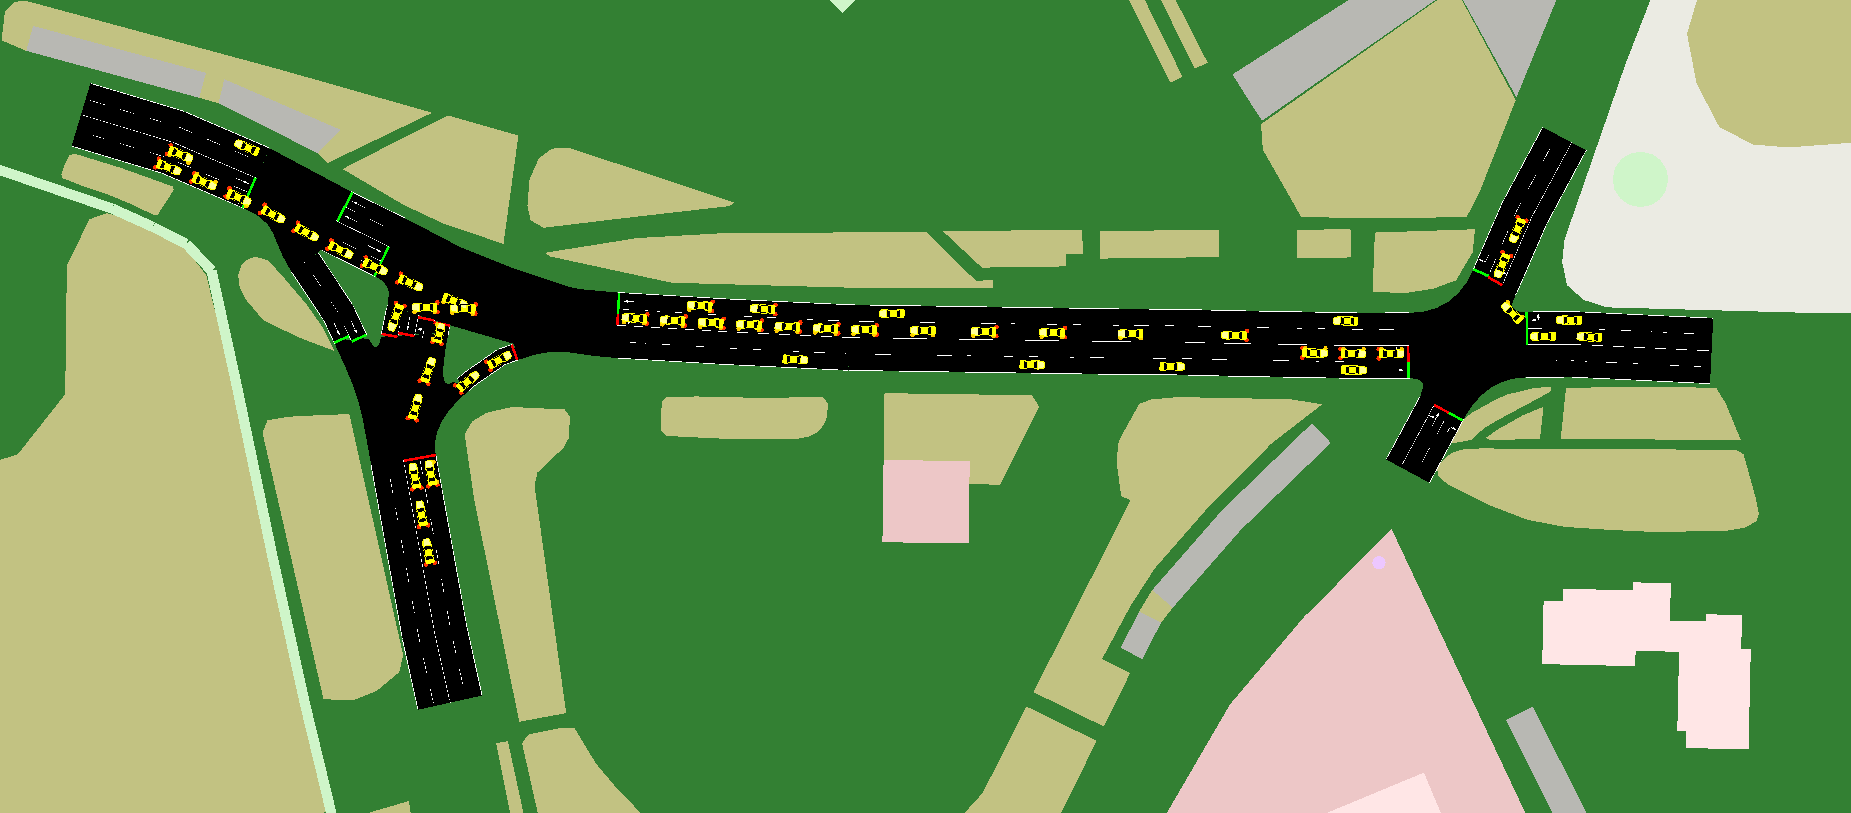
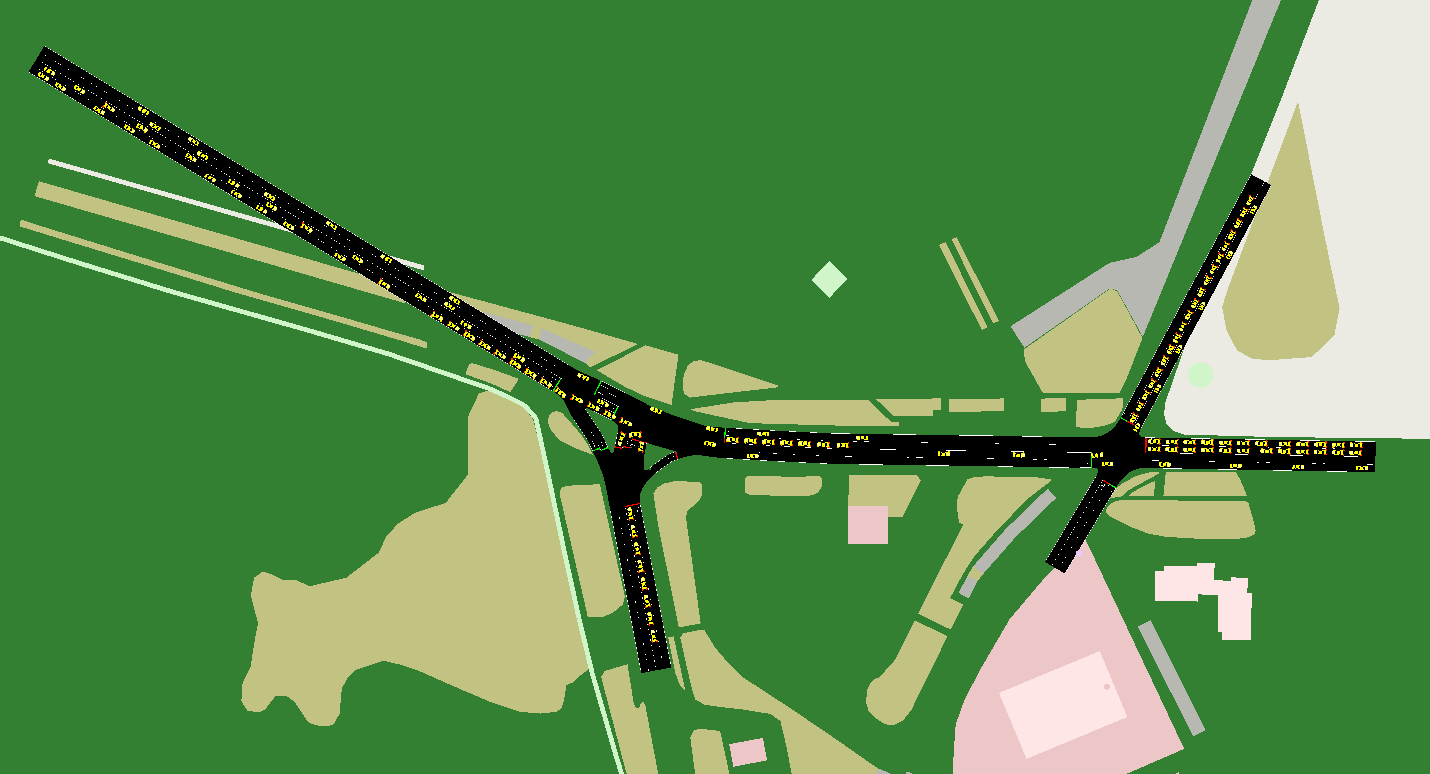
chapter 4, plots except tables done

diff --git a/vkr/my_folder/chapter4.tex b/vkr/my_folder/chapter4.tex
@@ -4,38 +4,65 @@
 \section{Анализ входных данных} \label{ch4:sec1}
 \subsection{Карта исследуемого участка дороги}
 \input{my_folder/tex/radiodetectors-map}
-На \firef{fig:radiodetectors-map} номерами 1 и 2 обозначены светофорные объекты, регулирующие движение на представленных перекрестках.
+На \firef{fig:radiodetectors-map} номерами 1 и 2 обозначены светофорные объекты, регулирующие движение на представленных перекрестках.\\
+Номерами со стрелками 900700, 6586 и т.д. обозначены номера детекторов.
+На \firef{fig:detectors-mapping} указано расположение указано расположение радиодетекторов.
 \newpage
-\input{my_folder/tex/sumo-gui-roadmap}
 
+\input{my_folder/tex/detectors-positions.tex}
+\input{my_folder/tex/sumo-gui-roadmap}
+\newpage
+На \firef{fig:detectors-setting} желтым обозначены позиции детекторов, содерщащих информацию о количестве машин в вершинах-источниках и вершинах-стоках.
 \input{my_folder/tex/detectors-setting}
+
 \subsection{Определение состояний}
 Информация о направлениях движения, регулируемых светофорными объектами 1 и 2, представлена в паспортах СО соответственно.\\
 Отметим, что оптимизация фаз, связанных с движением пешеходов, не производится. Время, отведённое под движение пешеходов,взято как исходное константное значение из паспорта.
-\newpage
+
 На \firef{fig:linked-phase-d} представлены направления пешеходного движения.\\
 \input{my_folder/tex/linked-md-four-in-one.tex}\\
-\clearpage
+\newpage
 На \firef{fig:separate-phase-c} представлены направления пешеходного движения.
 \input{my_folder/tex/separate-md-four-in-one.tex}
-\clearpage
 %\FloatBarrier % заставить рисунки и другие подвижные (float) элементы остановиться
-\clearpage
-\newpage
+
 \subsection{Сводка данных о трафике}
 Введём показатели:
 \begin{itemize}
-	\item \textbf{Volume} - интенсивность движения за 5 мин(ед/ч).
+	\item \textbf{Volume} - интенсивность движения за 5 мин(ед/5 мин).
 	\item \textbf{Speed} - средняя скорость транспортных средств за 5 мин.
 \end{itemize}
-Заметим, что рассматривается временной интервал с 06:00-09:00.\\
-На \firef{fig:9007000-hist-avgvol-wd} отображена средняя интенсивность движения по будням для каждого из 5-минутных интервалов.\\
-\firef{fig:9007000-hist-avgvol-wd} отображает показатели гистограммы в виде боксплота.\\
+Отметим, что рассматриваются следующие временные интервалы: дата 01.02.2024-21.02.2024, время 06:00-09:00.\\
+На \firef{fig:9007000-hist-avgvol-wd} отображена средняя интенсивность движения по будням для каждого из 5-минутных интервалов для детектора №900700.\\
+\firef{fig:9007000-boxplot-avgvol-wd} отображает показатели гистограммы в виде боксплота.\\
 
-\newpage
 \input{my_folder/tex/histogram-traffic.tex}
+\newpage
+На \firef{fig:900700-time-many-boxplots-vol} отображена интенсивность по будним дням по временным интервалам с 06:00 до 09:00. Частота агрегации - 5 минут.
+\begin{itemize}
+	\item По оси $x$ расположены временные интервалы.
+	\item По оси $y$ расположены боксплоты, отображающие значения интенсивности в момент времени $x$ по будням.
+\end{itemize}
+На \firef{fig:900700-time-many-boxplots-speed} отображена средяя по будним дням скорость ТС по временным интервалам с 06:00 до 09:00. Частота агрегации - 5 минут.
+\begin{itemize}
+	\item По оси $x$ расположены временные интервалы.
+	\item По оси $y$ расположены боксплоты, отображающие значения средней скорости в момент времени $x$ по будням.
+\end{itemize}
+\input{my_folder/tex/many-boxplots-time.tex}
+\newpage
+\input{my_folder/tex/many-boxplots-wd.tex}
+На \firef{fig:900700-wd-many-boxplots-vol} отображены значения интенсивности трафика по будним дням.
+\begin{itemize}
+	\item По оси $x$ расположены дни.
+	\item По оси $y$ расположены значения интенсивности по временным интервалам с 06:00 по 09:00.
+\end{itemize}
+На \firef{fig:900700-wd-many-boxplots-speed} отображены значения интенсивности трафика по будним дням.
+\begin{itemize}
+	\item По оси $x$ расположены дни.
+	\item По оси $y$ расположены значения средней скорости по временным интервалам с 06:00 по 09:00.
+\end{itemize}
+\newpage
 \section{Выводы} \label{ch4:conclusion}
-
 Текст выводов по главе \thechapter.
 
 %% Вспомогательные команды - Additional commands

diff --git a/data-processing.py b/data-processing.py
@@ -92,7 +92,7 @@ def sort_first_n_days(n, cur_df):
 
     return filtered_df[filtered_df['Time'] < filtered_df['Time'].iloc[0] + pd.Timedelta(days=n)]
 
-def form_mean_stats(first_n_days_data):
+def form_mean_stats(first_n_days_data):#correct
     time_stats = {}
     grouped = first_n_days_data.groupby(first_n_days_data['Time'].dt.strftime('%H:%M'))
     for group_name, group_data in grouped:
@@ -212,21 +212,22 @@ def plot(mean_dict, plot_name):
     plt.show()
 
 def plot_time_boxplots(total_boxplot_list):
+    annotations = {'qPKW': 'Volume', 'vPKW': 'Speed'}
     posits=[i for i in range(37)] #time measures
     #posits= [i for i in range(15)] #days count
-
+    posits = [1, 2, 5, 6, 7, 8, 9, 12, 13, 14, 15, 16, 19, 20, 21]
     for detector in total_boxplot_list:
         for det_line_info in detector.keys():
             _, det_id, line_id = det_line_info.split('_')
             for metric in ['qPKW', 'vPKW']:
                 
-                plt.boxplot([detector[det_line_info][metric][i] for i in range(detector[det_line_info][metric].shape[0])], positions=posits)
-                #plt.boxplot([detector[det_line_info][metric][:, i] for i in range(detector[det_line_info][metric].shape[1])], positions=posits)
+                #plt.boxplot([detector[det_line_info][metric][i] for i in range(detector[det_line_info][metric].shape[0])], positions=posits)
+                plt.boxplot([detector[det_line_info][metric][:, i] for i in range(detector[det_line_info][metric].shape[1])], positions=posits)
                 
-                plt.xticks(posits, times)
+                #plt.xticks(posits, times)
                 plt.xlabel('Боксплоты')
-                plt.ylabel(f'Метрика {metric}')
-                plt.title(f'detector-id: {det_id}, line-id: {line_id}, metric: {metric}')
+                plt.ylabel(annotations[metric])
+                plt.title(f'detector-id: {det_id}, line-id: {line_id}, metric: {annotations[metric]}')
                 
                 plt.show()
 
@@ -254,6 +255,6 @@ def main():
                 first_n_days_data.drop(group_data.index, inplace=True)
             
     dfrouter_final(sorted_by_detector_dict=sorted_by_detector_dict, total_boxplot_list=total_boxplot_list)      
-    #plot_time_boxplots(total_boxplot_list=total_boxplot_list)
+    plot_time_boxplots(total_boxplot_list=total_boxplot_list)
 if __name__ == '__main__':
     main()

diff --git a/vkr/my_folder/tex/many-boxplots-time.tex b/vkr/my_folder/tex/many-boxplots-time.tex
@@ -1,0 +1,15 @@
+\begin{figure}[!htbp]
+    \centering
+    \includegraphics[height=0.3\textheight,valign=t]{my_folder/images//900700-line-1-time-boxplots-wd-avgvol.png}
+    
+\captionsetup{justification=centering} %центрировать
+\caption{Боксплоты, отображающие среднюю интенсивность трафика по вр. интервалам, будни}\label{fig:900700-time-many-boxplots-vol}
+\end{figure}
+
+\begin{figure}[!htbp]
+    \centering
+    \includegraphics[height=0.3\textheight,valign=t]{my_folder/images//900700-line-1-time-boxplots-avgspeed-wd.png}
+    
+\captionsetup{justification=centering} %центрировать
+\caption{Боксплоты, отображающие среднюю скорость трафика по вр. интервалам, будни} \label{fig:900700-time-many-boxplots-speed}
+\end{figure}

diff --git a/vkr/my_folder/tex/many-boxplots-wd.tex b/vkr/my_folder/tex/many-boxplots-wd.tex
@@ -1,0 +1,15 @@
+\begin{figure}[!htbp]
+    \centering
+    \includegraphics[height=0.3\textheight,valign=t]{my_folder/images//wd-vol-boxplots.png}
+    
+\captionsetup{justification=centering} %центрировать
+\caption{Боксплоты, отображающие среднюю интенсивность трафика по дням, будни}\label{fig:900700-wd-many-boxplots-vol}
+\end{figure}
+
+\begin{figure}[!htbp]
+    \centering
+    \includegraphics[height=0.3\textheight,valign=t]{my_folder/images//wd-speed-boxplots.png}
+    
+\captionsetup{justification=centering} %центрировать
+\caption{Боксплоты, отображающие среднюю скорость трафика по дням, будни} \label{fig:900700-wd-many-boxplots-speed}
+\end{figure}

diff --git a/vkr/my_folder/tex/detectors-positions.tex b/vkr/my_folder/tex/detectors-positions.tex
@@ -1,0 +1,7 @@
+\begin{figure}[!htbp]
+	\centering
+	\includegraphics[height=0.3\textheight,valign=t]{my_folder/images//detectors-mapping.jpg}
+	
+\captionsetup{justification=centering} %центрировать
+\caption{Местоположение детекторов на дороге}\label{fig:detectors-mapping}
+\end{figure}

diff --git a/cmaes.py b/cmaes.py
@@ -46,7 +46,7 @@ def fitness_func(solution, **kwargs):
         '--no-warnings', 't',
         '--no-step-log', 't',
         '--quit-on-end', 't',
-        '-b', utils.first_simulation_step,
+        #'-b', utils.first_simulation_step,
         #'-e', utils.last_simulation_step,
         '--default.carfollowmodel', utils.default_carfollowmodel,
         '--collision.mingap-factor', utils.collision_mingap_factor,
@@ -74,7 +74,7 @@ def main(argv):
         sigma = 5
         #----------------------
         es = cma.CMAEvolutionStrategy(x0, sigma, opts)
-        iter_count = 125
+        iter_count = 250
         ff_partial = partial(fitness_func,
                              net_file=utils.net_dict.get(simulation_name),
                              folder_name=simulation_name,

diff --git a/vkr/my_folder/tex/radiodetectors-map.tex b/vkr/my_folder/tex/radiodetectors-map.tex
@@ -5,3 +5,4 @@
 \captionsetup{justification=centering} %центрировать
 	\caption{Участок дорожной карты с обозначением номеров радиодетекторов}\label{fig:radiodetectors-map}
 \end{figure}
+